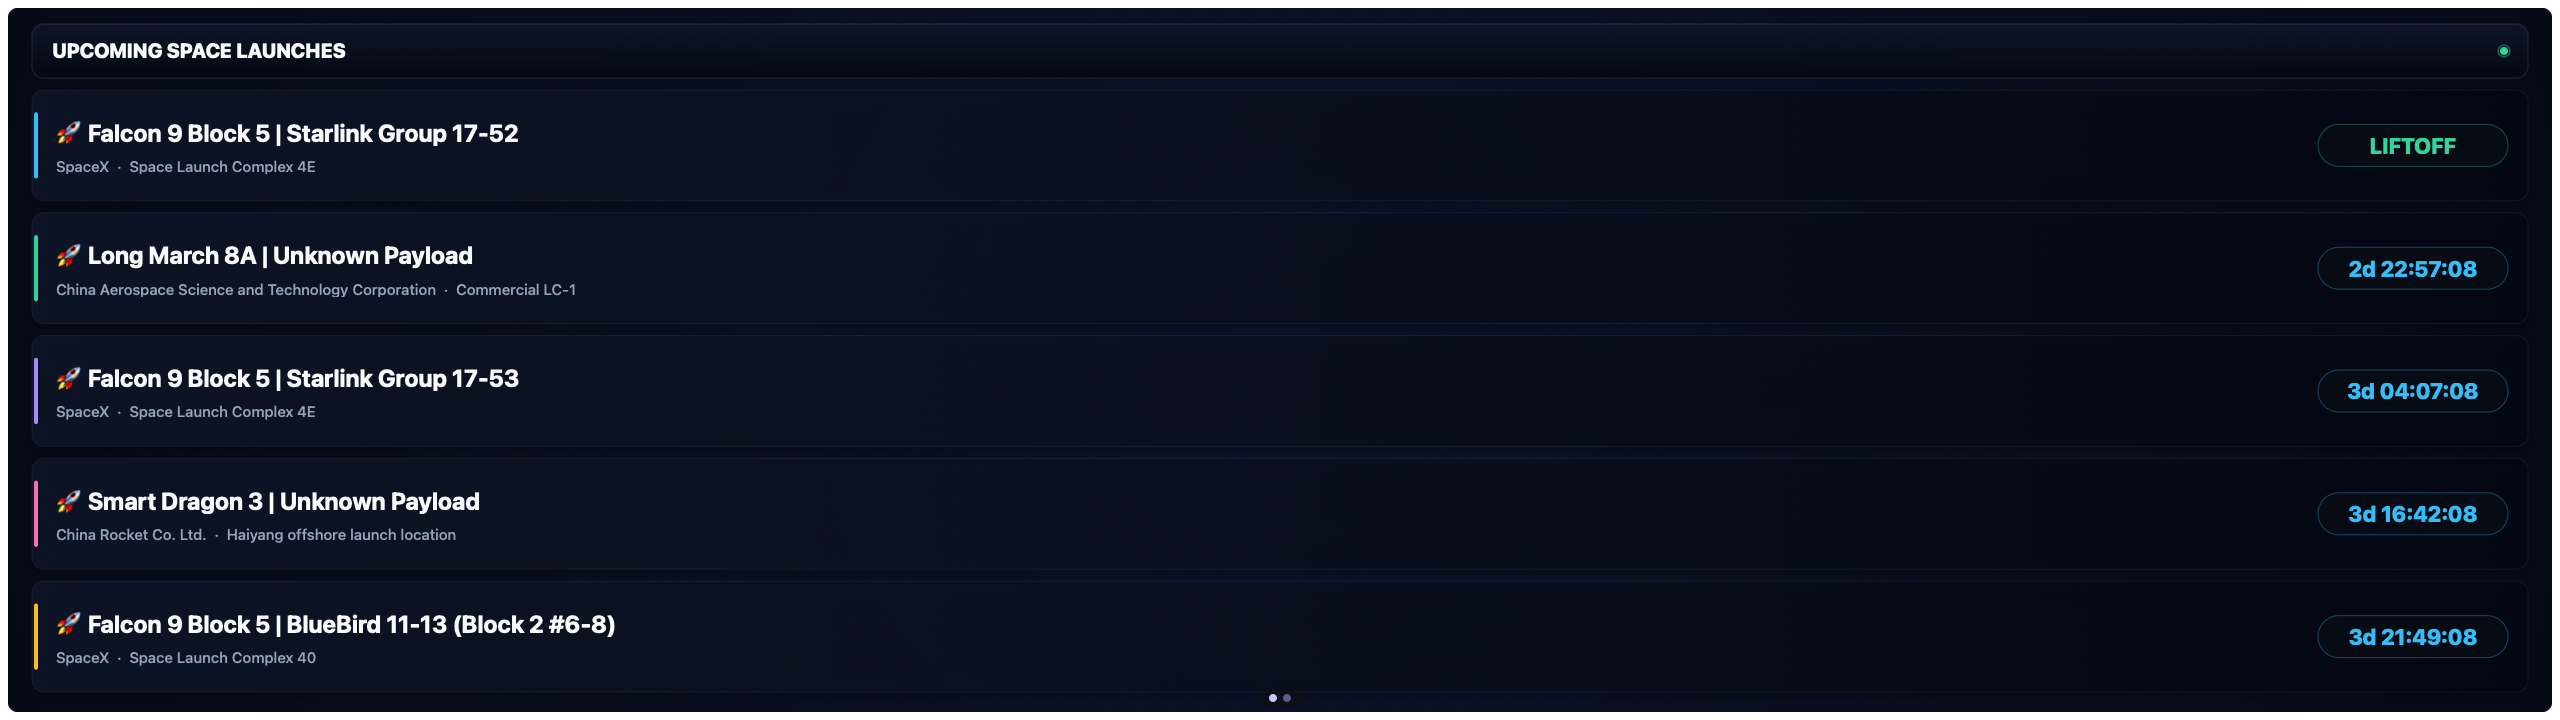
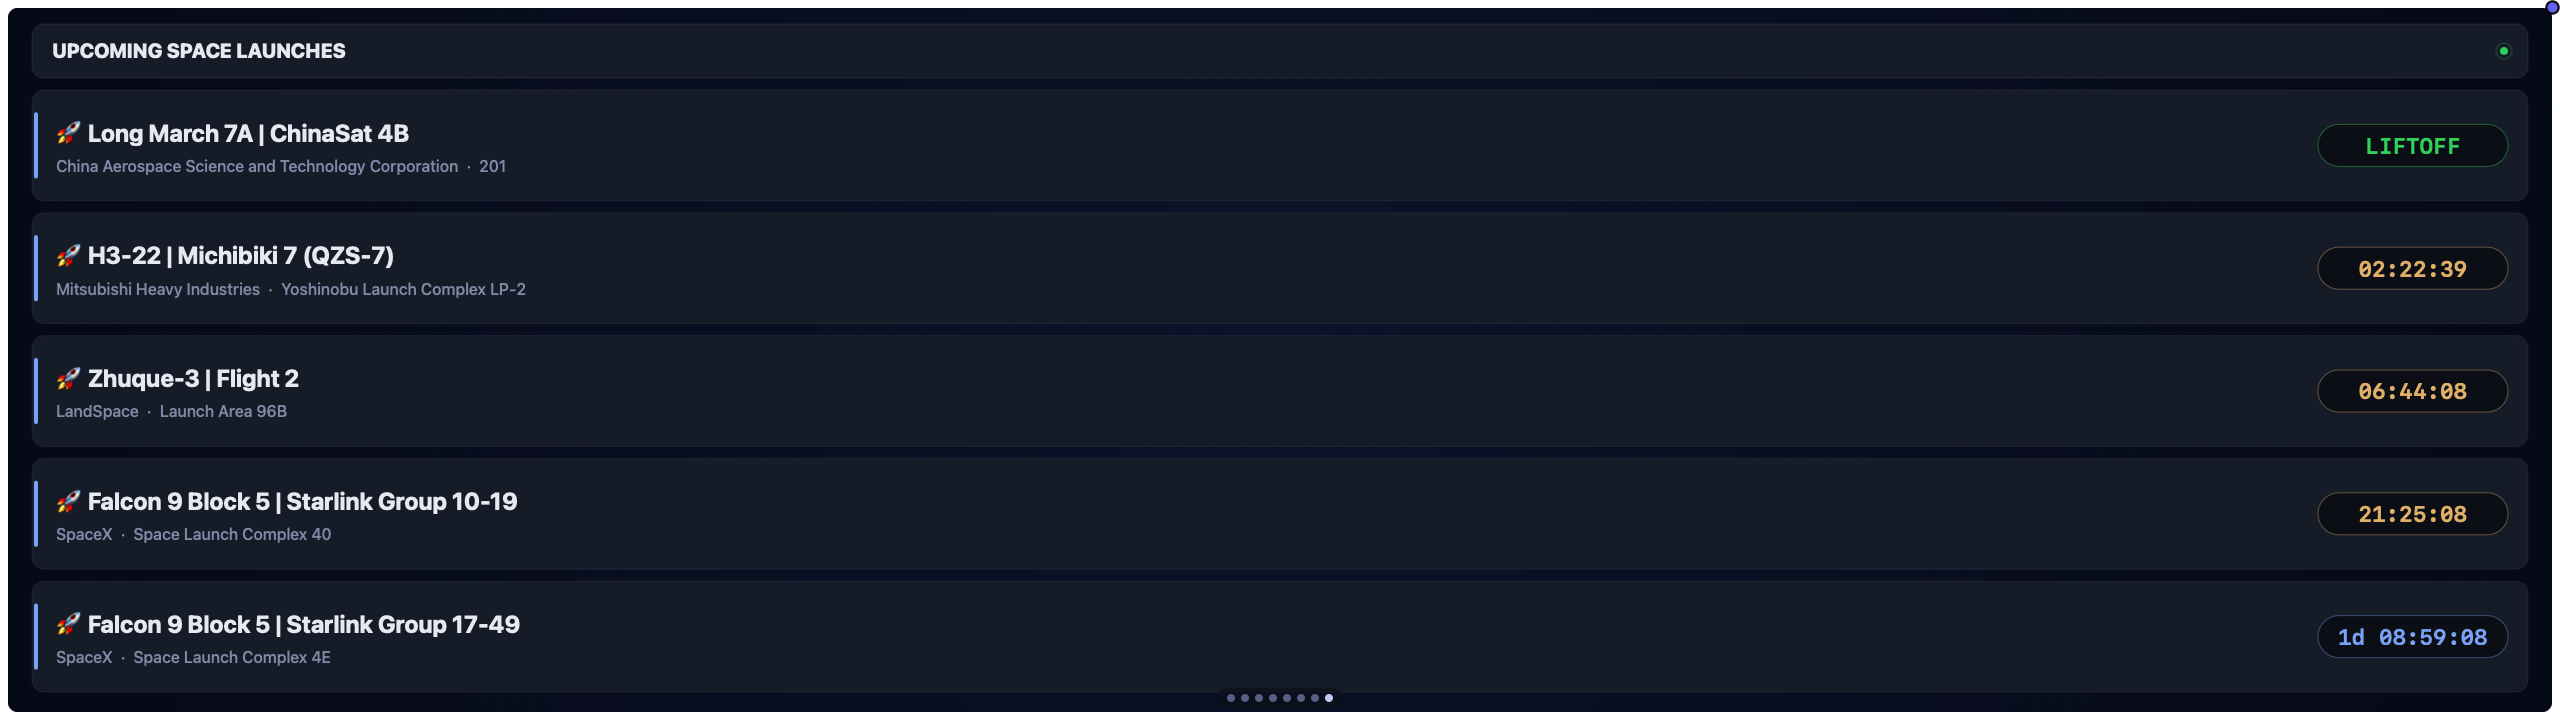
Align Space Launch Schedule with cockpit design system
Replaced glass-panel chrome (translucent gradients, shadowBlur/Offset)
on the header and every row card with flat opaque cockpit surfaces
per DESIGN.md — this was the most pervasive violation found in the
repo so far (every row, every second).

Replaced two off-palette color choices that had no real excuse:
countdownColors() now uses the app's own alert colors (OK Green /
Panel Red / Panel Amber / Panel Indigo) instead of invented hex for
an urgency mapping that already existed in the closed palette; the
six-color per-row accent ribbon (cycling by array index, tied to no
data) is now a single flat Panel Indigo bar.

Countdown text (the widget's one per-second live value) now set in
SF Mono per the Mono Numerals Rule. Sub-14px subtitle/error text
bumped to the design floor. Removed now-dead hexToRgb() helper.

diff --git a/com.vardek.space-launch/index.html b/com.vardek.space-launch/index.html
@@ -8,7 +8,7 @@
     height: 100%;
     overflow: hidden;
     background: transparent;
-    font-family: -apple-system, BlinkMacSystemFont, 'SF Pro Display', 'Segoe UI', Roboto, sans-serif;
+    font-family: -apple-system, BlinkMacSystemFont, 'Helvetica Neue', sans-serif;
   }
   #board { display: block; width: 100vw; height: 100vh; }
 </style>
@@ -31,7 +31,11 @@
   window.addEventListener("resize", fit);
   const { parseLaunches, formatCountdown } = globalThis.Launches;
 
-  const ACCENTS = ["#38bdf8", "#34d399", "#a78bfa", "#f472b6", "#fbbf24", "#f87171"];
+  // Cockpit palette (DESIGN.md): one flat accent, no per-row cycling — a color
+  // that means nothing (row index) is noise, not information.
+  const ROW_ACCENT = "#7aa2f7"; // Panel Indigo
+  const SANS = "-apple-system, BlinkMacSystemFont, 'Helvetica Neue', sans-serif";
+  const MONO = "ui-monospace, 'SF Mono', SFMono-Regular, Menlo, monospace";
 
   const defaults = { count: "5" };
   let cfg = Object.assign({}, defaults);
@@ -54,11 +58,6 @@
     ctx.closePath();
   }
 
-  function hexToRgb(hex) {
-    const n = parseInt(hex.slice(1), 16);
-    return ((n >> 16) & 255) + "," + ((n >> 8) & 255) + "," + (n & 255);
-  }
-
   function drawBg() {
     ctx.clearRect(0, 0, W, H);
 
@@ -72,10 +71,10 @@
   }
 
   function drawCentered(text) {
-    ctx.font = "600 22px -apple-system, BlinkMacSystemFont, sans-serif";
+    ctx.font = "600 22px " + SANS;
     ctx.textAlign = "center";
     ctx.textBaseline = "middle";
-    ctx.fillStyle = "#64748b";
+    ctx.fillStyle = "#8089a6";
     ctx.fillText(text, W / 2, H / 2);
   }
 
@@ -90,35 +89,32 @@
     return lo > 0 ? text.slice(0, lo) + "…" : "…";
   }
 
+  // Urgency maps directly onto DESIGN.md's own alert colors — no invented hex.
   function countdownColors(remaining) {
-    if (remaining <= 0) return { text: "#34d399", glow: "52,211,153" };
+    if (remaining <= 0) return { text: "#30d158", rgb: "48,209,88" };      // OK Green — launched
     const hours = remaining / 3600000;
-    if (hours < 1) return { text: "#f87171", glow: "248,113,113" };
-    if (hours < 24) return { text: "#fbbf24", glow: "251,191,36" };
-    return { text: "#38bdf8", glow: "56,189,248" };
+    if (hours < 1) return { text: "#f7768e", rgb: "247,118,142" };        // Panel Red — imminent
+    if (hours < 24) return { text: "#e0af68", rgb: "224,175,104" };       // Panel Amber — soon
+    return { text: "#7aa2f7", rgb: "122,162,247" };                       // Panel Indigo — later
   }
 
   function drawHeader() {
     const padX = 24, padY = 16, headerH = 54;
 
-    // Glassmorphic header bar
-    const grad = ctx.createLinearGradient(padX, padY, padX, padY + headerH);
-    grad.addColorStop(0, "rgba(15, 23, 42, 0.85)");
-    grad.addColorStop(1, "rgba(3, 7, 18, 0.90)");
-
-    ctx.fillStyle = grad;
+    // Flat, opaque cockpit panel — no gradient, no shadow.
+    ctx.fillStyle = "#161b28";
     roundRect(padX, padY, W - (padX * 2), headerH, 12);
     ctx.fill();
     ctx.strokeStyle = "rgba(255, 255, 255, 0.08)";
-    ctx.lineWidth = 1.5;
+    ctx.lineWidth = 1;
     roundRect(padX, padY, W - (padX * 2), headerH, 12);
     ctx.stroke();
 
     // Title
     ctx.textAlign = "left";
     ctx.textBaseline = "middle";
-    ctx.font = "800 20px -apple-system, BlinkMacSystemFont, 'SF Pro Display', sans-serif";
-    ctx.fillStyle = "#f8fafc";
+    ctx.font = "800 20px " + SANS;
+    ctx.fillStyle = "#e6e9ef";
     ctx.fillText("UPCOMING SPACE LAUNCHES", padX + 20, padY + headerH / 2);
 
     // Pulse Live Indicator
@@ -129,12 +125,12 @@
 
     ctx.beginPath();
     ctx.arc(liveX, liveY, 4, 0, 2 * Math.PI);
-    ctx.fillStyle = "#34d399";
+    ctx.fillStyle = "#30d158";
     ctx.fill();
 
     ctx.beginPath();
     ctx.arc(liveX, liveY, 4 + pulse * 4, 0, 2 * Math.PI);
-    ctx.strokeStyle = "rgba(52, 211, 153, " + (0.6 - pulse * 0.4) + ")";
+    ctx.strokeStyle = "rgba(48, 209, 88, " + (0.6 - pulse * 0.4) + ")";
     ctx.lineWidth = 1.5;
     ctx.stroke();
   }
@@ -167,7 +163,7 @@
     const rowH = (availableH - (rowGap * (rows - 1))) / rows;
 
     const nameSize = rowH >= 90 ? 24 : rowH >= 65 ? 20 : rowH >= 45 ? 16 : 14;
-    const subSize  = rowH >= 90 ? 15 : rowH >= 65 ? 13 : 11;
+    const subSize  = rowH >= 90 ? 16 : 14; // Fourteen-Pixel Floor: never below 14
     const cdSize   = rowH >= 90 ? 22 : rowH >= 65 ? 18 : 14;
 
     const badgeW = rowH >= 90 ? 190 : rowH >= 65 ? 150 : 120;
@@ -180,31 +176,19 @@
       const rowY = top + i * (rowH + rowGap);
       const rowW = W - (padX * 2);
       const midY = rowY + rowH / 2;
-      const accent = ACCENTS[i % ACCENTS.length];
 
-      // Glass row panel background
-      const cardGrad = ctx.createLinearGradient(padX, rowY, padX + rowW, rowY + rowH);
-      cardGrad.addColorStop(0, "rgba(15, 23, 42, 0.75)");
-      cardGrad.addColorStop(1, "rgba(3, 7, 18, 0.85)");
-
-      ctx.shadowColor = "rgba(0, 0, 0, 0.3)";
-      ctx.shadowBlur = 10;
-      ctx.shadowOffsetY = 4;
-      ctx.fillStyle = cardGrad;
+      // Flat, opaque cockpit row — no gradient, no shadow.
+      ctx.fillStyle = "#161b28";
       roundRect(padX, rowY, rowW, rowH, 12);
       ctx.fill();
-
-      // Card stroke
-      ctx.shadowBlur = 0;
-      ctx.shadowOffsetY = 0;
-      ctx.shadowColor = "transparent";
       ctx.strokeStyle = "rgba(255, 255, 255, 0.06)";
       ctx.lineWidth = 1;
       roundRect(padX, rowY, rowW, rowH, 12);
       ctx.stroke();
 
-      // Left Accent Ribbon
-      ctx.fillStyle = accent;
+      // Left accent ribbon — one flat cockpit color, not a per-row cycle
+      // that means nothing (row index carries no information).
+      ctx.fillStyle = ROW_ACCENT;
       roundRect(padX + 2, rowY + (rowH - (rowH * 0.6)) / 2, accentW, rowH * 0.6, 2);
       ctx.fill();
 
@@ -216,40 +200,39 @@
       // Rocket Title
       ctx.textAlign = "left";
       ctx.textBaseline = "middle";
-      ctx.fillStyle = "#f8fafc";
-      ctx.font = `700 ${nameSize}px -apple-system, BlinkMacSystemFont, sans-serif`;
+      ctx.fillStyle = "#e6e9ef";
+      ctx.font = `700 ${nameSize}px ${SANS}`;
 
       const titleY = subSize > 0 ? midY - (rowH * 0.12) : midY;
       ctx.fillText("🚀 " + truncate(l.name, textMaxW - 30), textX, titleY);
 
       // Subtitle (Provider / Pad)
       if (rowH >= 45) {
-        ctx.fillStyle = "#94a3b8";
-        ctx.font = `500 ${subSize}px -apple-system, BlinkMacSystemFont, sans-serif`;
+        ctx.fillStyle = "#8089a6";
+        ctx.font = `500 ${subSize}px ${SANS}`;
         const sub = [l.provider, l.pad].filter(Boolean).join("  ·  ");
         ctx.fillText(truncate(sub, textMaxW), textX, midY + (rowH * 0.18));
       }
 
-      // Countdown Badge Box
+      // Countdown Badge Box — flat, opaque.
       const remaining = l.netMs - Date.now();
       const cd = formatCountdown(remaining);
       const cdTheme = countdownColors(remaining);
       const badgeY = midY - badgeH / 2;
 
-      ctx.fillStyle = "rgba(8, 12, 20, 0.8)";
+      ctx.fillStyle = "#0b0e14";
       roundRect(cdBadgeX, badgeY, badgeW, badgeH, badgeH / 2);
       ctx.fill();
 
-      const rgb = hexToRgb(cdTheme.text);
-      ctx.strokeStyle = "rgba(" + rgb + ", 0.35)";
+      ctx.strokeStyle = "rgba(" + cdTheme.rgb + ", 0.4)";
       ctx.lineWidth = 1;
       roundRect(cdBadgeX, badgeY, badgeW, badgeH, badgeH / 2);
       ctx.stroke();
 
-      // Countdown text inside badge
+      // Countdown text — the Mono Numerals Rule: it ticks every second, so it's SF Mono.
       ctx.textAlign = "center";
       ctx.textBaseline = "middle";
-      ctx.font = `800 ${cdSize}px -apple-system, BlinkMacSystemFont, sans-serif`;
+      ctx.font = `600 ${cdSize}px ${MONO}`;
       ctx.fillStyle = cdTheme.text;
       ctx.fillText(cd, cdBadgeX + badgeW / 2, midY);
     }
@@ -257,9 +240,9 @@
     if (errorMsg) {
       ctx.textAlign = "left";
       ctx.textBaseline = "alphabetic";
-      ctx.fillStyle = "#f87171";
-      ctx.font = "500 12px -apple-system, BlinkMacSystemFont, sans-serif";
-      ctx.fillText(errorMsg, padX, H - 6);
+      ctx.fillStyle = "#f7768e";
+      ctx.font = "500 14px " + SANS;
+      ctx.fillText(errorMsg, padX, H - 8);
     }
   }
 
